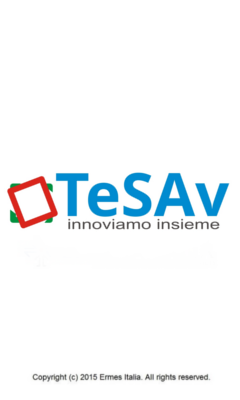
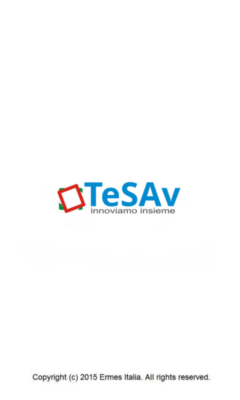
1424
1424

Changed region(s): [[0.0292, 0.42, 0.9625, 0.6]]

diff --git a/www/index.html b/www/index.html
@@ -803,8 +803,8 @@
 							left: 50%;
 							margin-top: -150px;
 							margin-left: -150px;
-							width: 300px;
-							height: 270px;
+							width: 50%;
+							height: 50%;
 							
 							z-index: 101;
 							
@@ -879,8 +879,8 @@
 							left: 50%;
 							margin-top: -150px;
 							margin-left: -150px;
-							width: 300px;
-							height: 260px;
+							width: 50%;
+							height: 50%;
 							
 							z-index: 111;
 							
@@ -1521,7 +1521,7 @@
 				</tr>
 				<tr>
 					<td width="100%" align="center" valign="center">
-						<font size="3" color="#fff"><b>Powerd by Ermes Italia s.rl.</b></font>
+						<font size="4" color="#fff"><b>Powerd by Ermes Italia s.rl.</b></font>
 					</td>
 				</tr>
 				<tr>
@@ -1531,7 +1531,7 @@
 				</tr>
 				<tr>
 					<td width="100%" align="center" valign="center">
-						<font id="banner1" size="2" color="#fff">Questa App è stata sviluppata dalla piattaforma IBA. ogni App viene personalizzata in funzione delle caratteristiche che il cliente richiede.</font>
+						<font id="banner1" size="3" color="#fff">Questa App è stata sviluppata dalla piattaforma IBA. ogni App viene personalizzata in funzione delle caratteristiche che il cliente richiede.</font>
 					</td>
 				</tr>
 				<tr>
@@ -1562,7 +1562,7 @@
 		</div>
 			
 			<div id="pippo0" style="display: none;">
-				<table border="0" align="center" width="100%" height="50%">
+				<table border="0" align="center" width="100%" height="50%" class="visione">
 					<tr height="32px">
 						<td width="100%" align="left">
 							<a href="javascript:chiudi0()"><img src="img/exit.png" width="32px"></a>

diff --git a/www/js/index.js b/www/js/index.js
@@ -754,6 +754,7 @@ function aprisms(){
 }
 
 function aprisms0(){
+	
 	("#pippo0").show("slow");
 }
 
